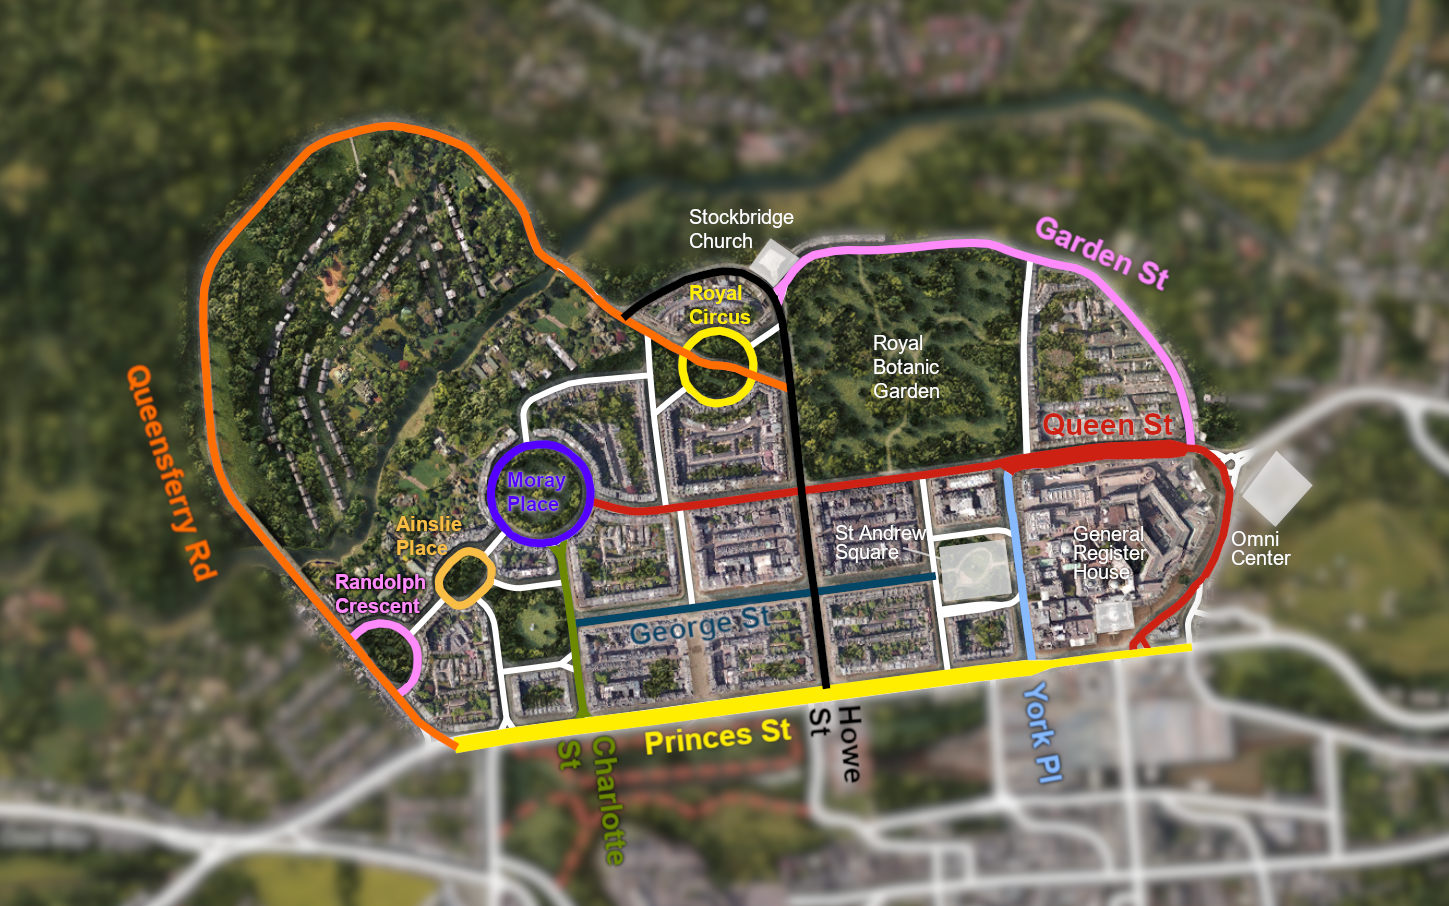
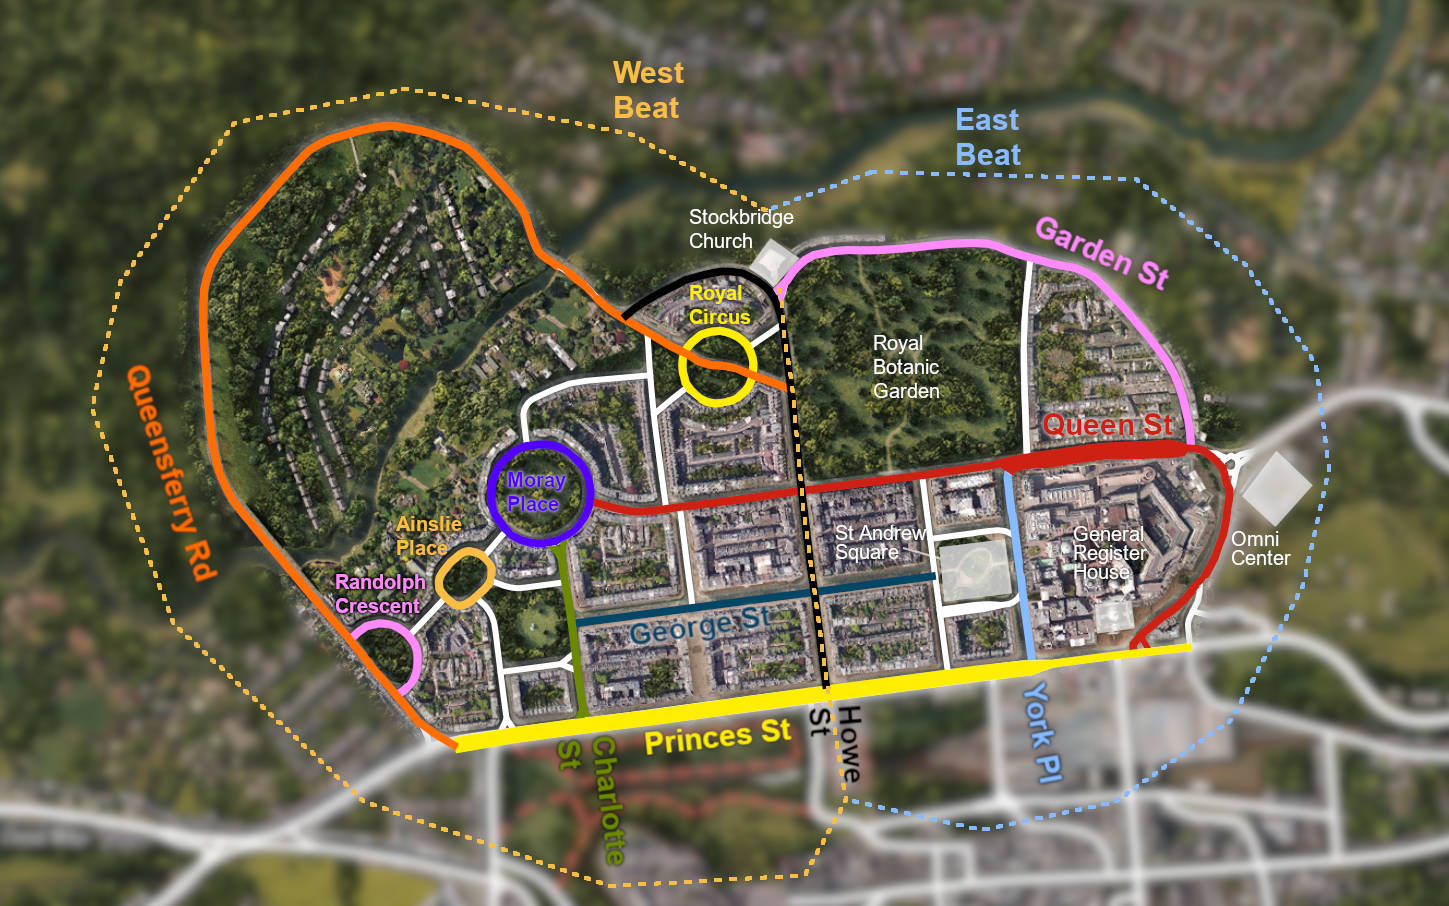
updated maps to add beats

diff --git a/maps.php b/maps.php
@@ -14,7 +14,7 @@
     <div>
         <div class="infotop">
             <h3>Edinburgh North</h3>
-            <p>The northern section of Edinburgh containing plenty of roundabouts, botanic garden, and more. Works best with 6+ players.</p>
+            <p>The northern section of Edinburgh containing plenty of roundabouts, botanic garden, and more. Works best with 6+ players. Split up into two beats (patrol areas): west and east. The host or dispatch should assign units to each area.</p>
         </div>
         <div class="infobottom">
             <div class="mapimgcontainer">
@@ -30,7 +30,7 @@
     <div>
         <div class="infotop">
             <h3>Edinburgh South</h3>
-            <p>The southern section of Edinburgh containing the castle, police HQ, and more. Works best with 6+ players.</p>
+            <p>The southern section of Edinburgh containing the castle, police HQ, and more. Works best with 6+ players. Split up into two beats (patrol areas): west and east. The host or dispatch should assign units to each area.</p>
         </div>
         <div class="infobottom">
             <div class="mapimgcontainer">
